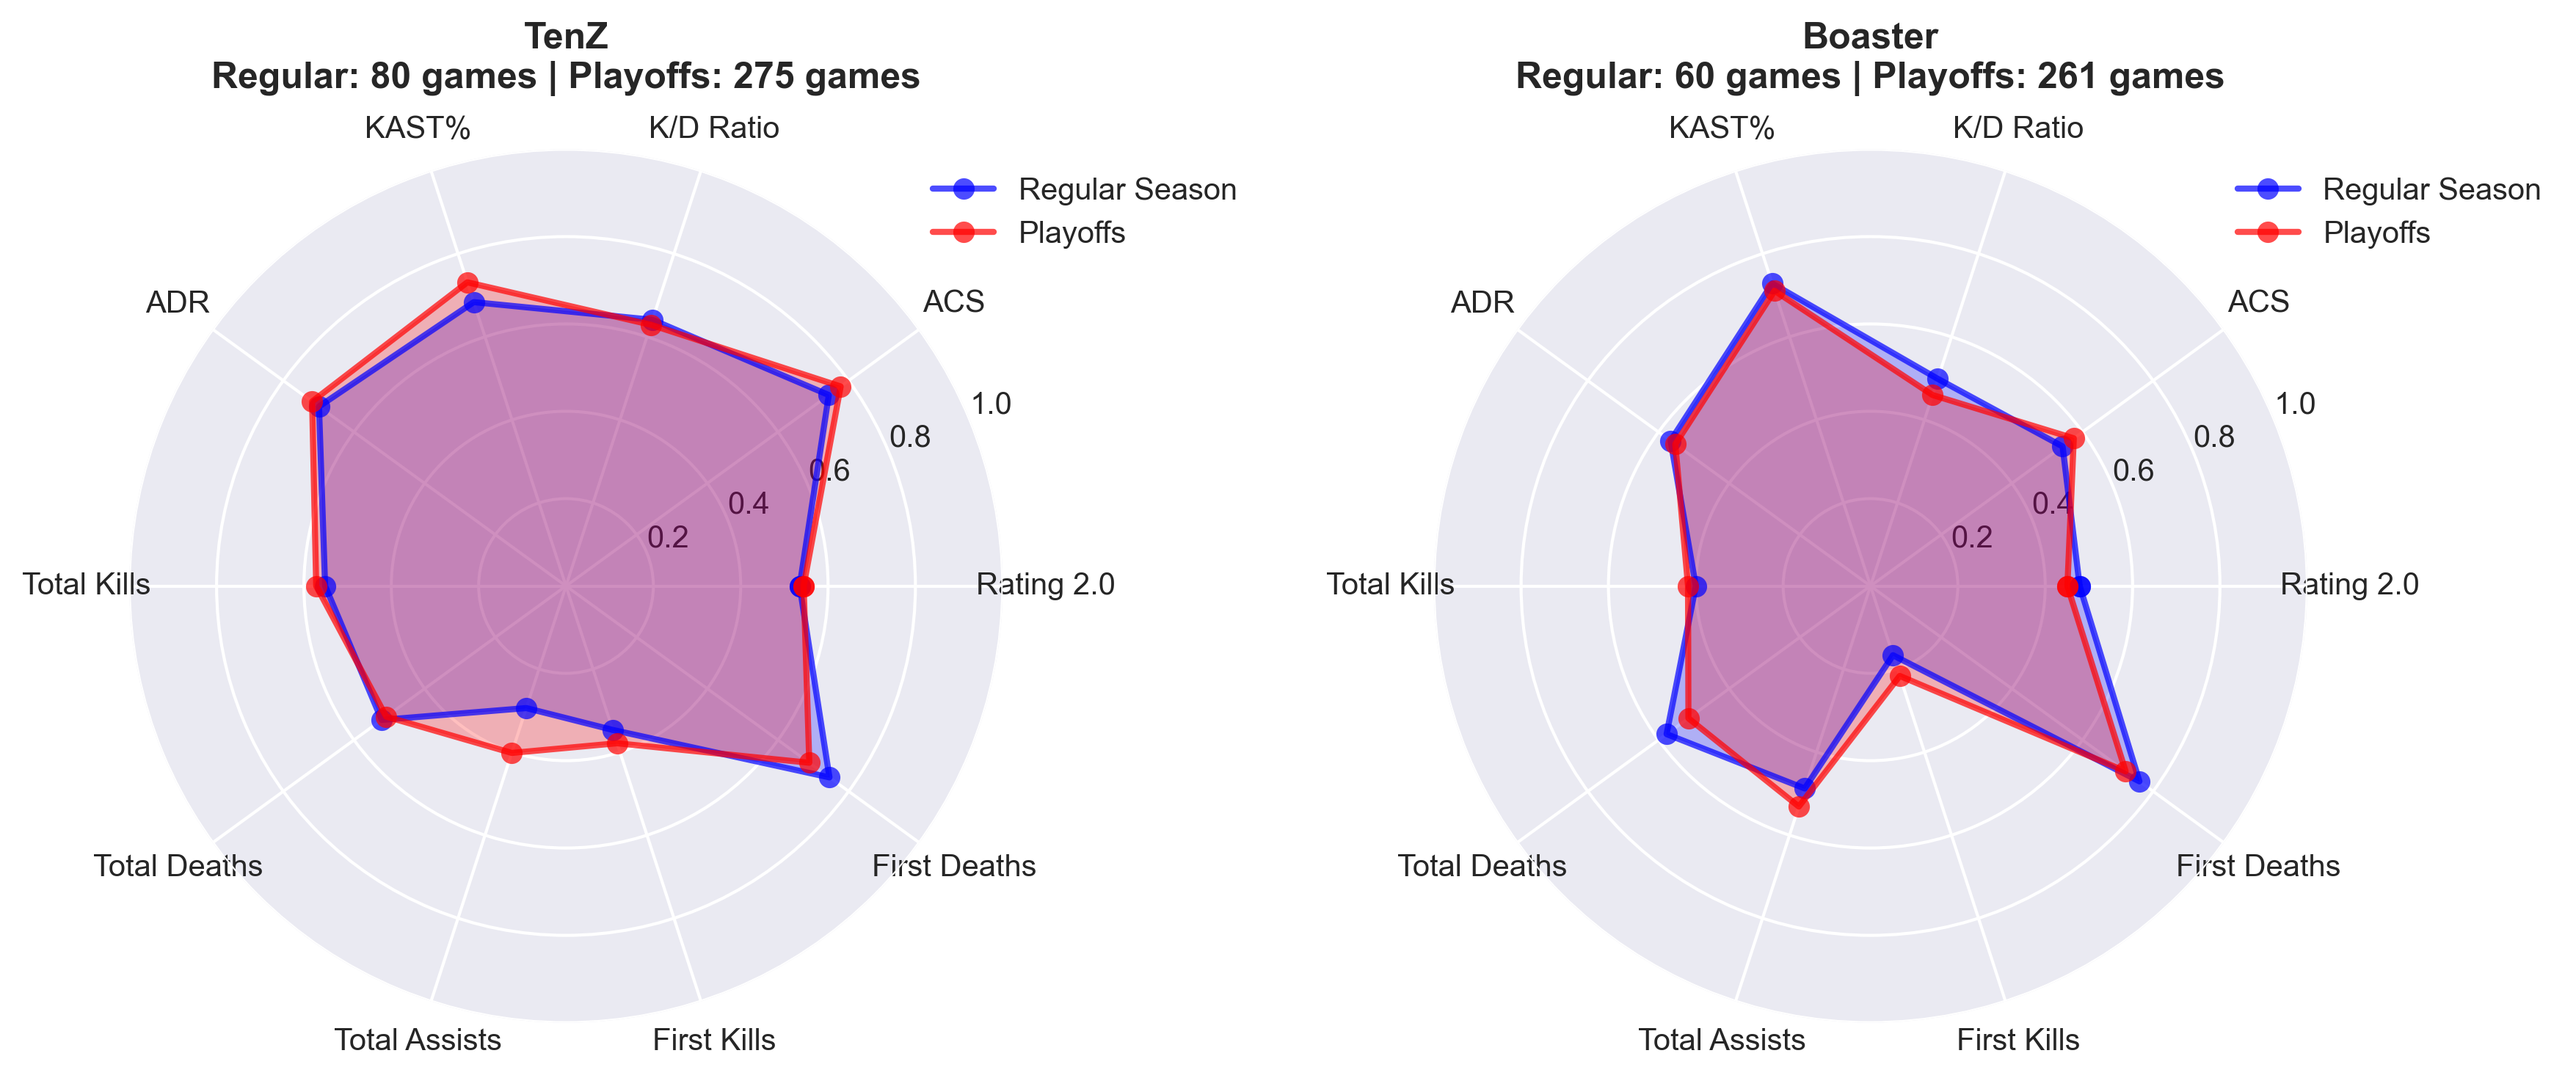
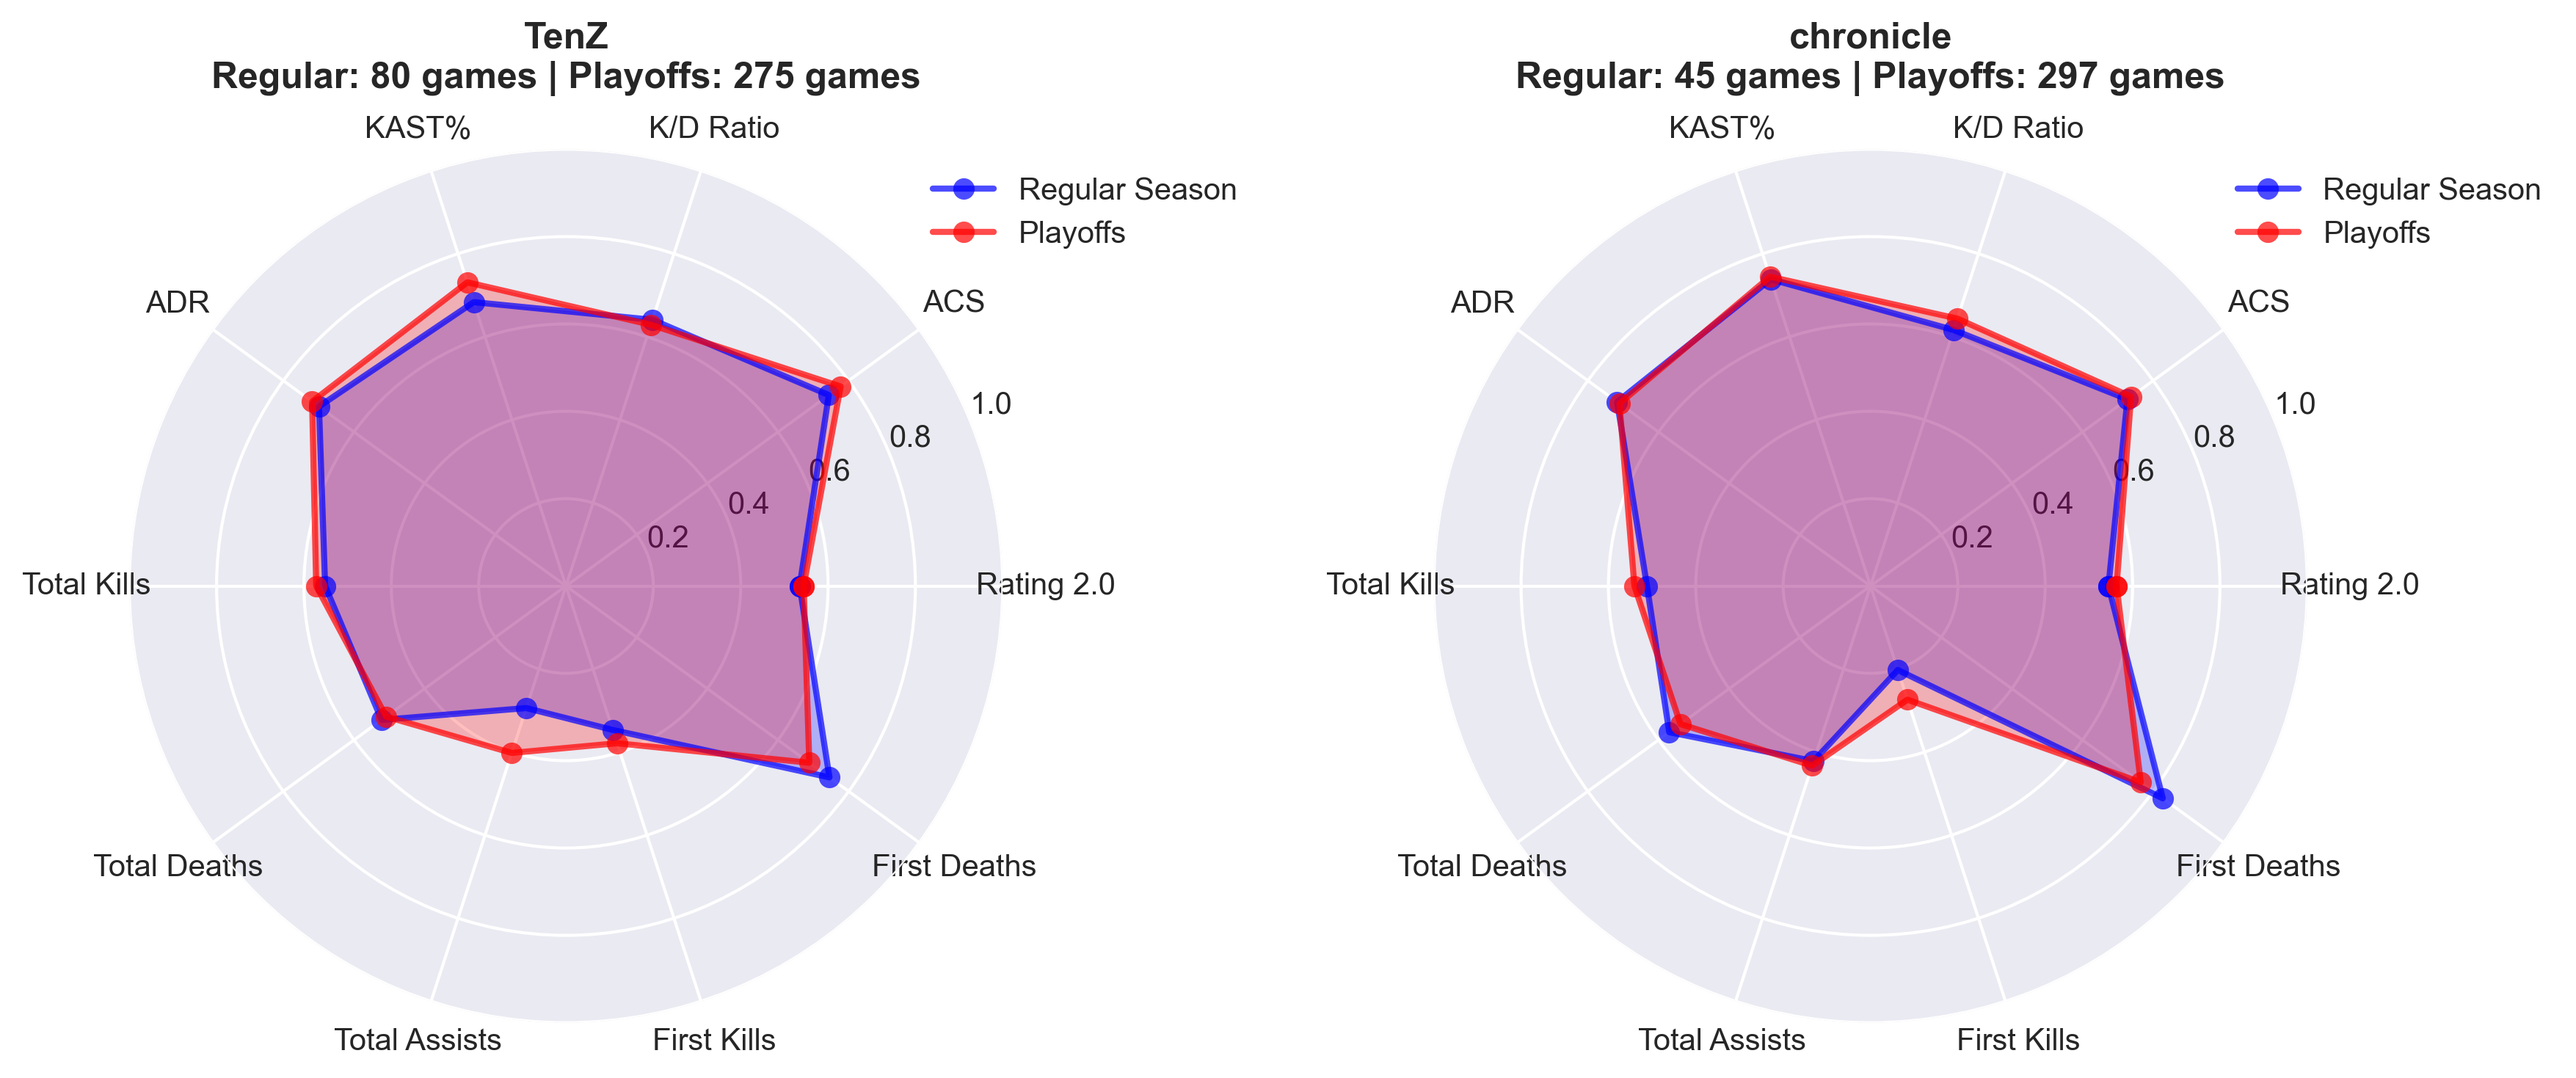
only using cleaned db now

Changed region(s): [[0.6211, 0.2451, 0.8385, 0.7658], [0.6832, 0.0306, 0.7764, 0.0613], [0.6521, 0.0613, 0.6832, 0.0919]]

diff --git a/queries/player_radar_comparison.py b/queries/player_radar_comparison.py
@@ -16,9 +16,8 @@ from classification import (
     get_database_exclusion_filters
 )
 
-# Database paths
-ORIGINAL_DB_PATH = os.path.join(os.path.dirname(os.path.dirname(__file__)), "data", "map_stats.db")
-CLEAN_DB_PATH = os.path.join(os.path.dirname(os.path.dirname(__file__)), "data", "valorant_stats_clean.db")
+# Path to the cleaned SQLite database
+DB_PATH = os.path.join(os.path.dirname(os.path.dirname(__file__)), "data", "valorant_stats_clean.db")
 
 # Output directory
 OUTPUT_DIR = os.path.join(os.path.dirname(os.path.dirname(__file__)), "query_results")
@@ -51,7 +50,7 @@ STATS_LABELS = [
     'First Deaths'
 ]
 
-def get_player_games(player_names: List[str], event_names: Optional[List[str]] = None, db_path: str = ORIGINAL_DB_PATH) -> pd.DataFrame:
+def get_player_games(player_names: List[str], event_names: Optional[List[str]] = None, db_path: str = DB_PATH) -> pd.DataFrame:
     """
     Get games for the specified players from the database.
     
@@ -67,11 +66,7 @@ def get_player_games(player_names: List[str], event_names: Optional[List[str]] =
     conn = sqlite3.connect(db_path)
     
     # For clean database, we don't need exclusion filters since data is already cleaned
-    if db_path == CLEAN_DB_PATH:
-        exclusion_filters = ""
-    else:
-        # Use the centralized exclusion filters for original database
-        exclusion_filters = get_database_exclusion_filters()
+    exclusion_filters = ""
     
     # Create the WHERE clause for multiple players
     player_conditions = " OR ".join([f"player_name LIKE '%{name}%'" for name in player_names])
@@ -368,7 +363,7 @@ def print_player_summary(player_stats: List[Dict]):
                 print(f"  First Kills: {stats['total_first_kills']:.1f}")
                 print(f"  First Deaths: {stats['total_first_deaths']:.1f}")
 
-def analyze_players(player_names: List[str], event_names: Optional[List[str]] = None, db_path: str = ORIGINAL_DB_PATH) -> List[Dict]:
+def analyze_players(player_names: List[str], event_names: Optional[List[str]] = None) -> List[Dict]:
     """
     Main function to analyze multiple players.
     
@@ -376,23 +371,19 @@ def analyze_players(player_names: List[str], event_names: Optional[List[str]] = 
         player_names: List of player names to analyze
         event_names: Optional list of specific event names to filter by.
                     If None, includes all events.
-        db_path: Path to the database to query
         
     Returns:
         List of player statistics dictionaries
     """
-    db_name = "Original" if db_path == ORIGINAL_DB_PATH else "Clean"
-    
-    if event_names:
-        print(f"Loading data for players: {', '.join(player_names)}")
+    print(f"Loading data for players: {', '.join(player_names)}")
+    if event_names is not None:
         print(f"Filtering by events: {', '.join(event_names)}")
-        print(f"Using {db_name} database")
     else:
-        print(f"Loading data for players: {', '.join(player_names)} (all events)")
-        print(f"Using {db_name} database")
+        print("Using all events.")
+    print(f"Using Clean database at {DB_PATH}")
     
     # Get player games
-    df = get_player_games(player_names, event_names, db_path)
+    df = get_player_games(player_names, event_names, DB_PATH)
     
     if df.empty:
         print("No games found for the specified players!")
@@ -418,136 +409,15 @@ def analyze_players(player_names: List[str], event_names: Optional[List[str]] = 
     
     return player_stats
 
-def compare_databases(player_names: List[str], event_names: Optional[List[str]] = None) -> Tuple[List[Dict], List[Dict]]:
+def create_radar_charts(player_names: List[str], event_names: Optional[List[str]] = None):
     """
-    Compare player performance between original and cleaned databases.
+    Create radar charts comparing regular season vs playoff performance for all players.
     
     Args:
         player_names: List of player names to analyze
         event_names: Optional list of specific event names to filter by.
                     If None, includes all events.
-        
-    Returns:
-        Tuple of (original_stats, clean_stats)
     """
-    print("=" * 80)
-    print("DATABASE COMPARISON ANALYSIS")
-    print("=" * 80)
-    
-    # Check if clean database exists
-    if not os.path.exists(CLEAN_DB_PATH):
-        print(f"Warning: Clean database not found at {CLEAN_DB_PATH}")
-        print("Please run the data cleaning script first.")
-        return [], []
-    
-    # Analyze with original database
-    print("\n1. ANALYZING WITH ORIGINAL DATABASE")
-    print("-" * 50)
-    original_stats = analyze_players(player_names, event_names, ORIGINAL_DB_PATH)
-    
-    # Analyze with clean database
-    print("\n2. ANALYZING WITH CLEAN DATABASE")
-    print("-" * 50)
-    clean_stats = analyze_players(player_names, event_names, CLEAN_DB_PATH)
-    
-    return original_stats, clean_stats
-
-def print_database_comparison(original_stats: List[Dict], clean_stats: List[Dict]):
-    """
-    Print a comparison between original and clean database results.
-    
-    Args:
-        original_stats: Player statistics from original database
-        clean_stats: Player statistics from clean database
-    """
-    print("\n" + "=" * 80)
-    print("DATABASE COMPARISON SUMMARY")
-    print("=" * 80)
-    
-    for i, player_name in enumerate([stat['player_name'] for stat in original_stats if stat]):
-        print(f"\n{player_name.upper()}")
-        print("-" * 40)
-        
-        orig_stat = original_stats[i] if i < len(original_stats) else None
-        clean_stat = clean_stats[i] if i < len(clean_stats) else None
-        
-        if orig_stat and clean_stat:
-            print("ORIGINAL DATABASE:")
-            print(f"  Total Games: {orig_stat['total_games']}")
-            print(f"  Regular Season: {orig_stat['regular_season']['games_count']} games")
-            print(f"  Playoffs: {orig_stat['playoffs']['games_count']} games")
-            
-            print("\nCLEAN DATABASE:")
-            print(f"  Total Games: {clean_stat['total_games']}")
-            print(f"  Regular Season: {clean_stat['regular_season']['games_count']} games")
-            print(f"  Playoffs: {clean_stat['playoffs']['games_count']} games")
-            
-            # Calculate differences
-            total_diff = clean_stat['total_games'] - orig_stat['total_games']
-            reg_diff = clean_stat['regular_season']['games_count'] - orig_stat['regular_season']['games_count']
-            play_diff = clean_stat['playoffs']['games_count'] - orig_stat['playoffs']['games_count']
-            
-            print(f"\nDIFFERENCES (Clean - Original):")
-            print(f"  Total Games: {total_diff:+d}")
-            print(f"  Regular Season: {reg_diff:+d}")
-            print(f"  Playoffs: {play_diff:+d}")
-            
-            # Show stat differences for regular season
-            if orig_stat['regular_season']['games_count'] > 0 and clean_stat['regular_season']['games_count'] > 0:
-                print(f"\nREGULAR SEASON STAT DIFFERENCES:")
-                orig_reg = orig_stat['regular_season']['stats']
-                clean_reg = clean_stat['regular_season']['stats']
-                for stat in STATS_COLUMNS:
-                    if stat in orig_reg and stat in clean_reg:
-                        diff = clean_reg[stat] - orig_reg[stat]
-                        print(f"  {stat}: {diff:+.3f}")
-            
-            # Show stat differences for playoffs
-            if orig_stat['playoffs']['games_count'] > 0 and clean_stat['playoffs']['games_count'] > 0:
-                print(f"\nPLAYOFFS STAT DIFFERENCES:")
-                orig_play = orig_stat['playoffs']['stats']
-                clean_play = clean_stat['playoffs']['stats']
-                for stat in STATS_COLUMNS:
-                    if stat in orig_play and stat in clean_play:
-                        diff = clean_play[stat] - orig_play[stat]
-                        print(f"  {stat}: {diff:+.3f}")
-        else:
-            print("Data not available for comparison")
-
-def main():
-    """
-    Main function - create 4 comparisons: 2 with original database, 2 with cleaned database.
-    """
-    # Add player names here for analysis
-    player_names = [
-        "TenZ",
-        "Boaster"
-    ]
-    
-    # OPTIONAL: Add specific event names to filter by
-    # If you want to analyze only specific events, uncomment and modify the line below:
-    # event_names = ["VCT Champions", "VCT Masters"]
-    # If you want all events (default), leave this as None:
-    event_names = None
-    
-    # UNCOMMENT THE LINE BELOW TO SEE ALL AVAILABLE EVENTS:
-    # print_available_events()
-    
-    print("=" * 80)
-    print("PLAYER RADAR COMPARISON - ORIGINAL vs CLEAN DATABASE")
-    print("=" * 80)
-    
-    # First, compare databases and show differences
-    original_stats, clean_stats = compare_databases(player_names, event_names)
-    
-    if not original_stats and not clean_stats:
-        print("No data found for any players!")
-        return
-    
-    # Print database comparison summary
-    print_database_comparison(original_stats, clean_stats)
-    
-    # Create 4 radar charts: 2 with original, 2 with cleaned
     print("\n" + "=" * 80)
     print("CREATING RADAR CHARTS")
     print("=" * 80)
@@ -560,36 +430,27 @@ def main():
     else:
         event_suffix = ""
     
-    # 1. Original database radar chart
-    if original_stats:
-        print("\n1. Creating radar chart with ORIGINAL database...")
-        orig_chart_filename = f'player_radar_comparison_original{event_suffix}.png'
-        create_radar_chart(original_stats, orig_chart_filename)
-        
-        # Save original database results to CSV
-        orig_csv_filename = f'player_comparison_data_original{event_suffix}.csv'
-        save_results_to_csv(original_stats, orig_csv_filename)
+    # Analyze players
+    player_stats = analyze_players(player_names, event_names)
     
-    # 2. Clean database radar chart
-    if clean_stats:
-        print("\n2. Creating radar chart with CLEAN database...")
-        clean_chart_filename = f'player_radar_comparison_clean{event_suffix}.png'
-        create_radar_chart(clean_stats, clean_chart_filename)
-        
-        # Save clean database results to CSV
-        clean_csv_filename = f'player_comparison_data_clean{event_suffix}.csv'
-        save_results_to_csv(clean_stats, clean_csv_filename)
+    if not player_stats:
+        print("No data found for any players!")
+        return
+    
+    # Create radar chart
+    chart_filename = f'player_radar_comparison_clean{event_suffix}.png'
+    create_radar_chart(player_stats, chart_filename)
+    
+    # Save results to CSV
+    csv_filename = f'player_comparison_data_clean{event_suffix}.csv'
+    save_results_to_csv(player_stats, csv_filename)
     
     print("\n" + "=" * 80)
     print("ANALYSIS COMPLETE!")
     print("=" * 80)
-    print("Created 4 files:")
-    if original_stats:
-        print(f"  - Original database radar chart: {orig_chart_filename}")
-        print(f"  - Original database CSV data: {orig_csv_filename}")
-    if clean_stats:
-        print(f"  - Clean database radar chart: {clean_chart_filename}")
-        print(f"  - Clean database CSV data: {clean_csv_filename}")
+    print("Created 2 files:")
+    print(f"  - Clean database radar chart: {chart_filename}")
+    print(f"  - Clean database CSV data: {csv_filename}")
     print("\nCompare the results to see the impact of data cleaning!")
 
 def save_results_to_csv(player_stats: List[Dict], filename: str):
@@ -628,4 +489,19 @@ def save_results_to_csv(player_stats: List[Dict], filename: str):
         print(f"  No data to save for {filename}")
 
 if __name__ == "__main__":
-    main() 
+    # Add player names here for analysis
+    player_names = [
+        "TenZ",
+        "chronicle"
+    ]
+    
+    # OPTIONAL: Add specific event names to filter by
+    # If you want to analyze only specific events, uncomment and modify the line below:
+    # event_names = ["VCT Champions", "VCT Masters"]
+    # If you want all events (default), leave this as None:
+    event_names = None
+    
+    # UNCOMMENT THE LINE BELOW TO SEE ALL AVAILABLE EVENTS:
+    # print_available_events()
+    
+    create_radar_charts(player_names, event_names) 
